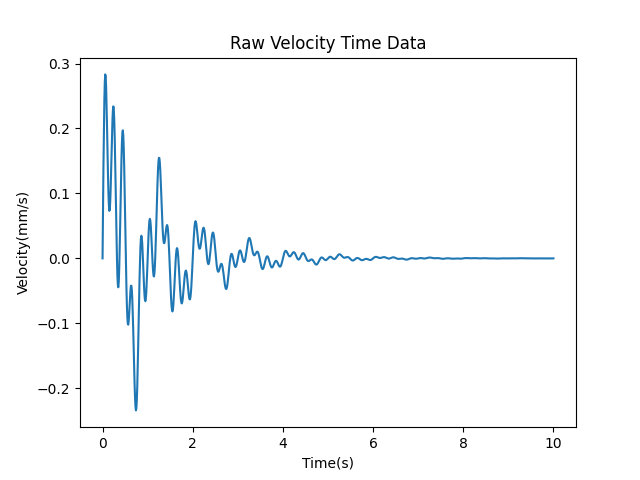
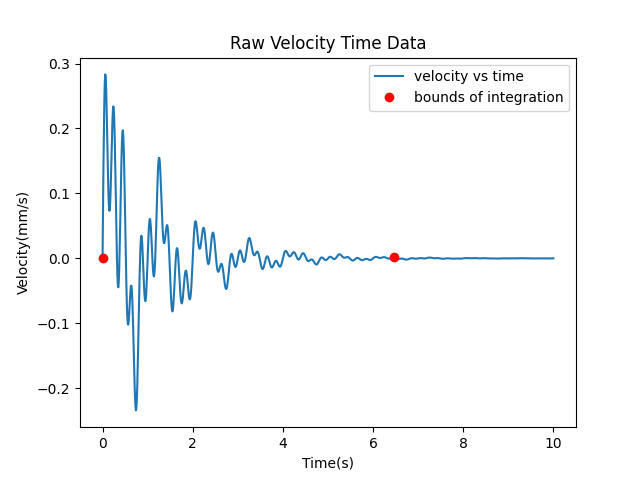
formatting and removing debug statements

Changed region(s): [[0.5938, 0.125, 0.9062, 0.2188], [0.5938, 0.5312, 0.625, 0.5625], [0.1562, 0.5312, 0.1875, 0.5625]]

diff --git a/examples/driver_seismic.py b/examples/driver_seismic.py
@@ -6,26 +6,33 @@ import matplotlib.pyplot as plt
 def main():
 
     s_wave_data=np.loadtxt(fname="s_wave_data.txt")
-    t=s_wave_data[:,0]
-    v=s_wave_data[:,1]
+    t_raw=s_wave_data[:,0]
+    v_raw=s_wave_data[:,1]
 
-    plt.plot(t, v, label="Velocity(mm/s) vs. Time(s)")
-    plt.xlabel("Time(s)")
-    plt.ylabel("Velocity(mm/s)")
-    plt.title("Raw Velocity Time Data")
-    plt.savefig("../figures/raw_data.png")
-    plt.close("all")
-
-    max_v=max(np.abs(v))
+    max_v=max(np.abs(v_raw))
     v_last=max_v*0.005
 
     for i in range (0,1001):
-        if v[i] > v_last:
+        if v_raw[i] > v_last:
             index_max=i
 
-    T=t[index_max]
-    t=t[:index_max]
-    v=v[:index_max]
+    plot_t=[t_raw[0], t_raw[index_max]]
+    plot_v=[v_raw[0], v_raw[index_max]]
+
+    T=t_raw[index_max]
+    t=t_raw[:index_max]
+    v=v_raw[:index_max]
+
+    print(plot_t, plot_v)
+
+    plt.plot(t_raw, v_raw, label="velocity vs time")
+    plt.plot(plot_t, plot_v, "ro", label="bounds of integration")
+    plt.xlabel("Time(s)")
+    plt.ylabel("Velocity(mm/s)")
+    plt.title("Raw Velocity Time Data")
+    plt.legend()
+    plt.savefig("../figures/raw_data.png")
+    plt.close("all")
 
     int_trap_arr=[[], [], [], [], []]
     int_simp_arr=[[], [], [], [], []]

diff --git a/examples/driver_probability.py b/examples/driver_probability.py
@@ -31,12 +31,10 @@ def main():
 
     for i in (npts):
         integral_arr2.append(integrate_gauss(prob2, lims1, npts=i))
-        print(integral_arr2)
     
     for j in range (0, len(npts)-1):
         eps_a2.append(np.abs((integral_arr2[j+1]-integral_arr2[j])/integral_arr2[j+1]))
     
-
     plt.loglog(npts[:-1], eps_a1, label="seismic")
     plt.loglog(npts[:-1], eps_a2, label="length")
     plt.xscale("log")
